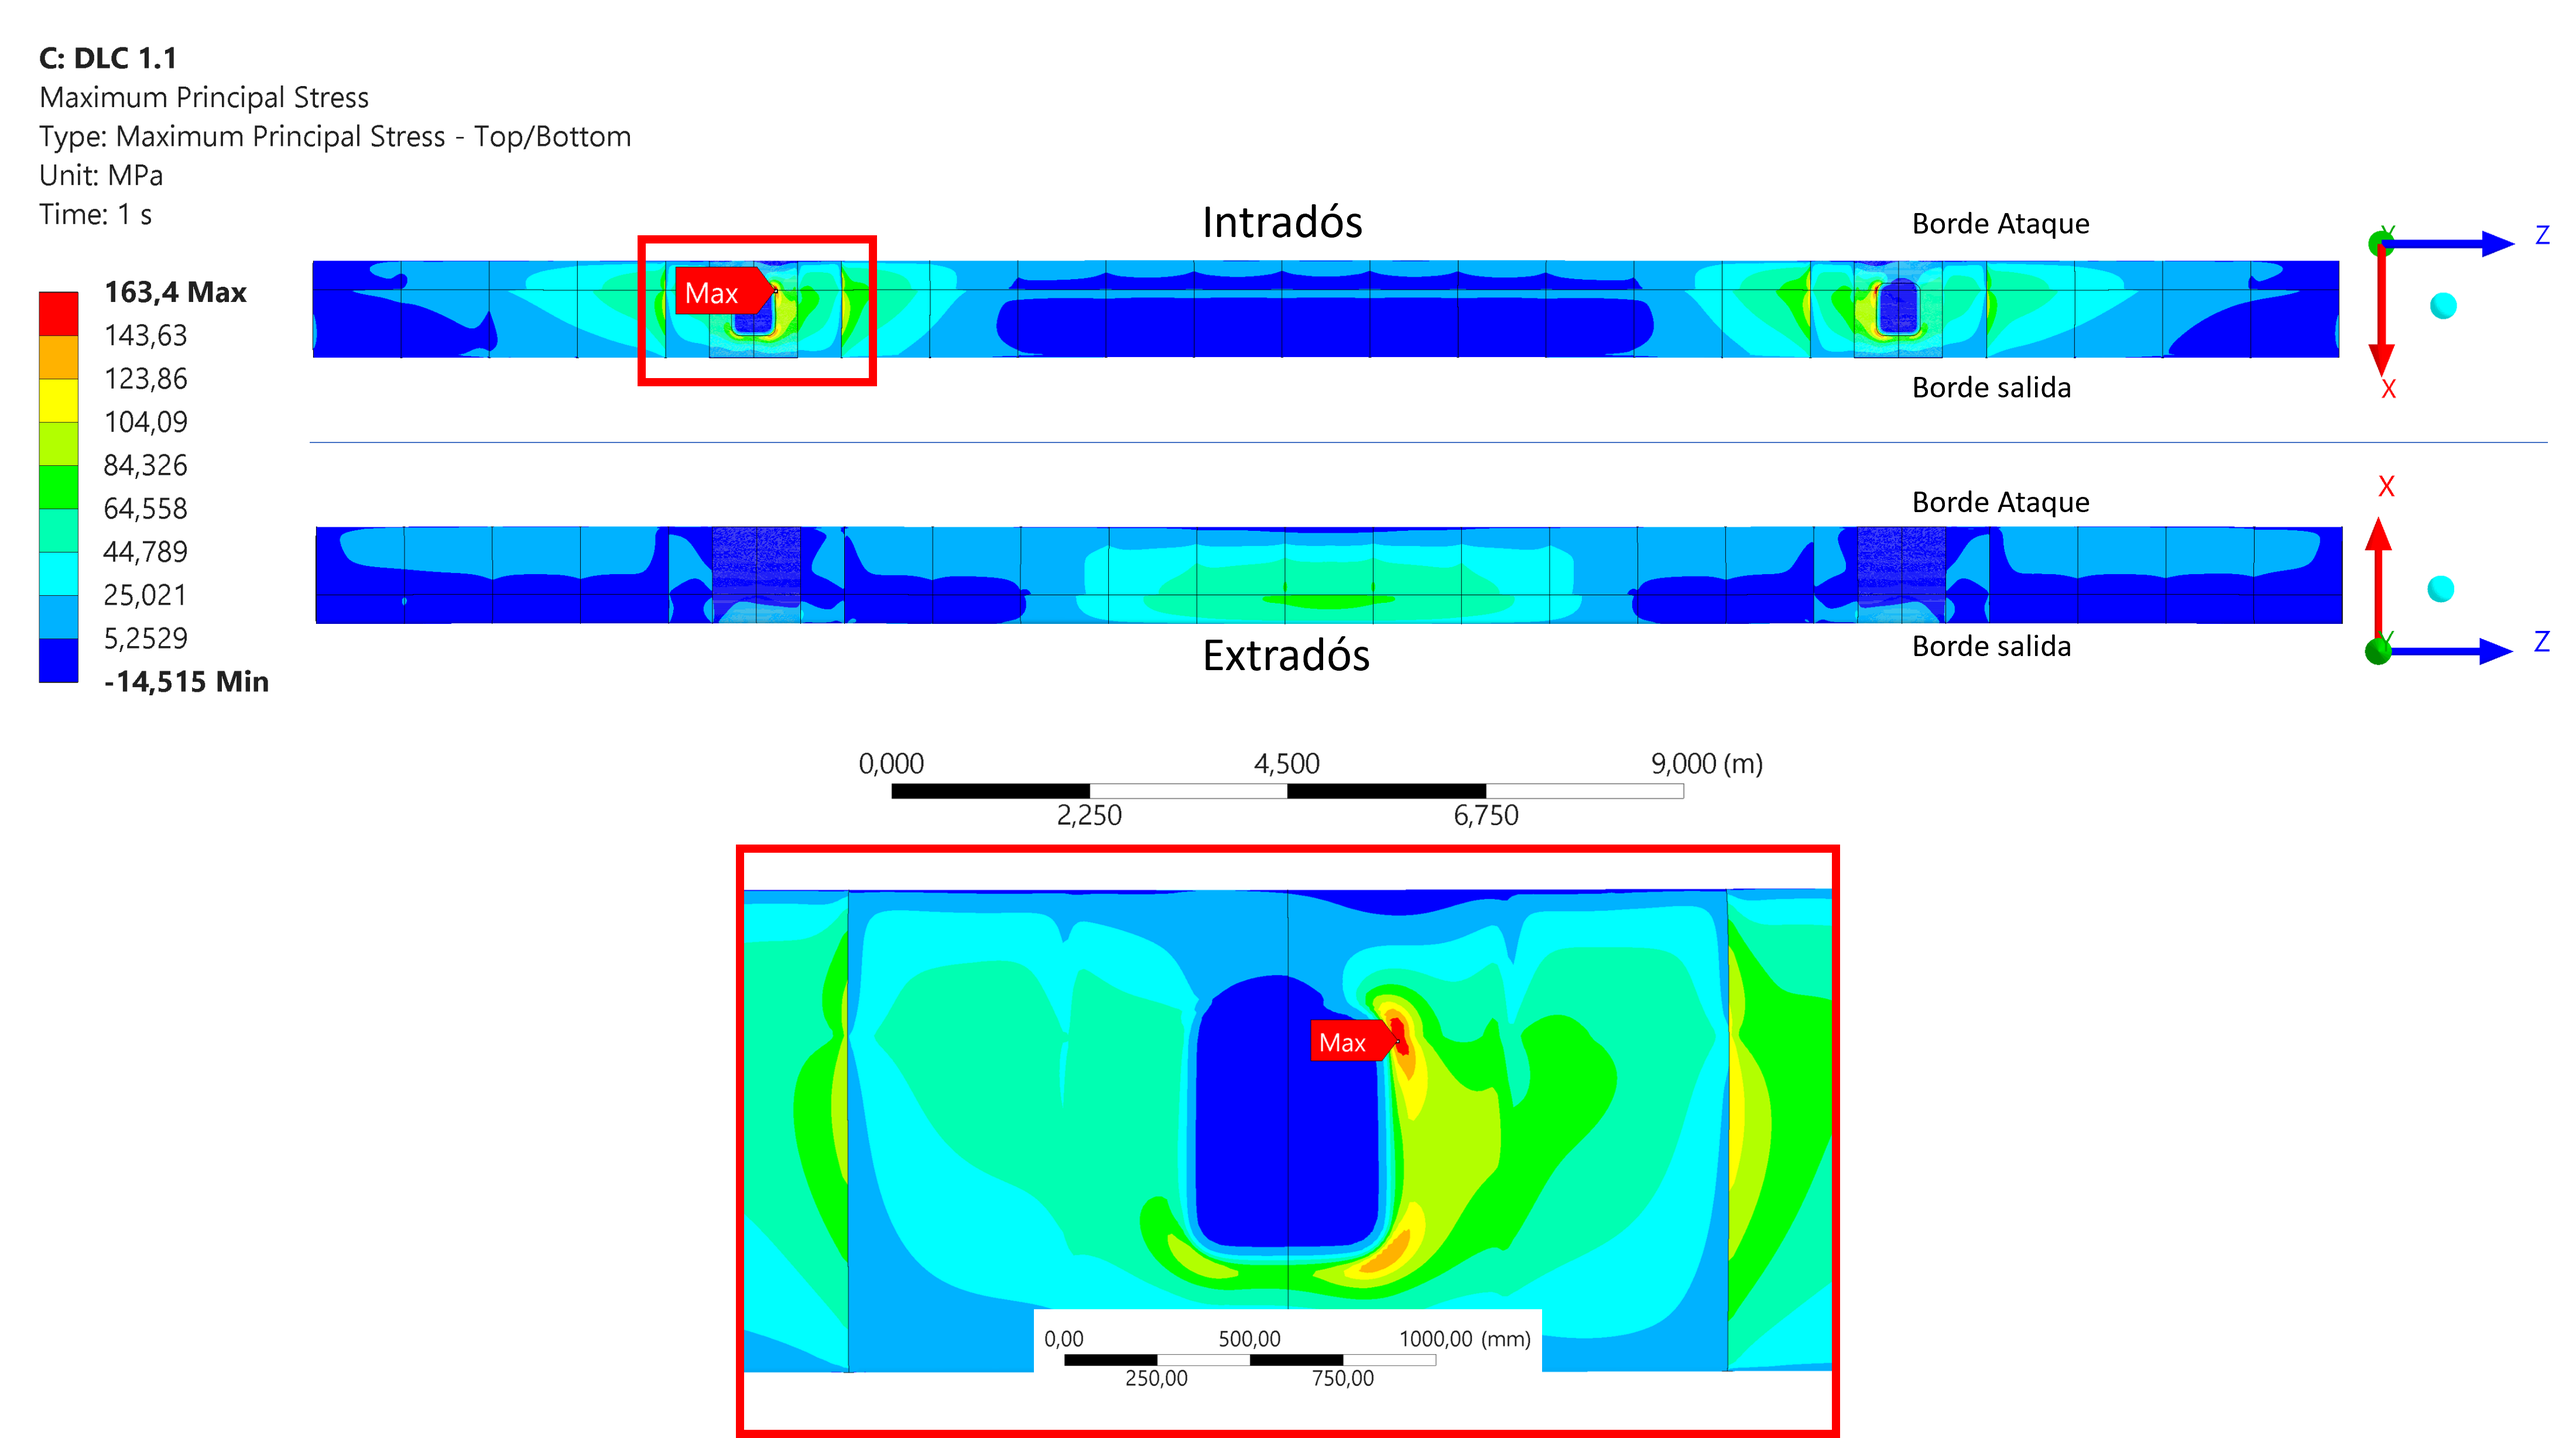
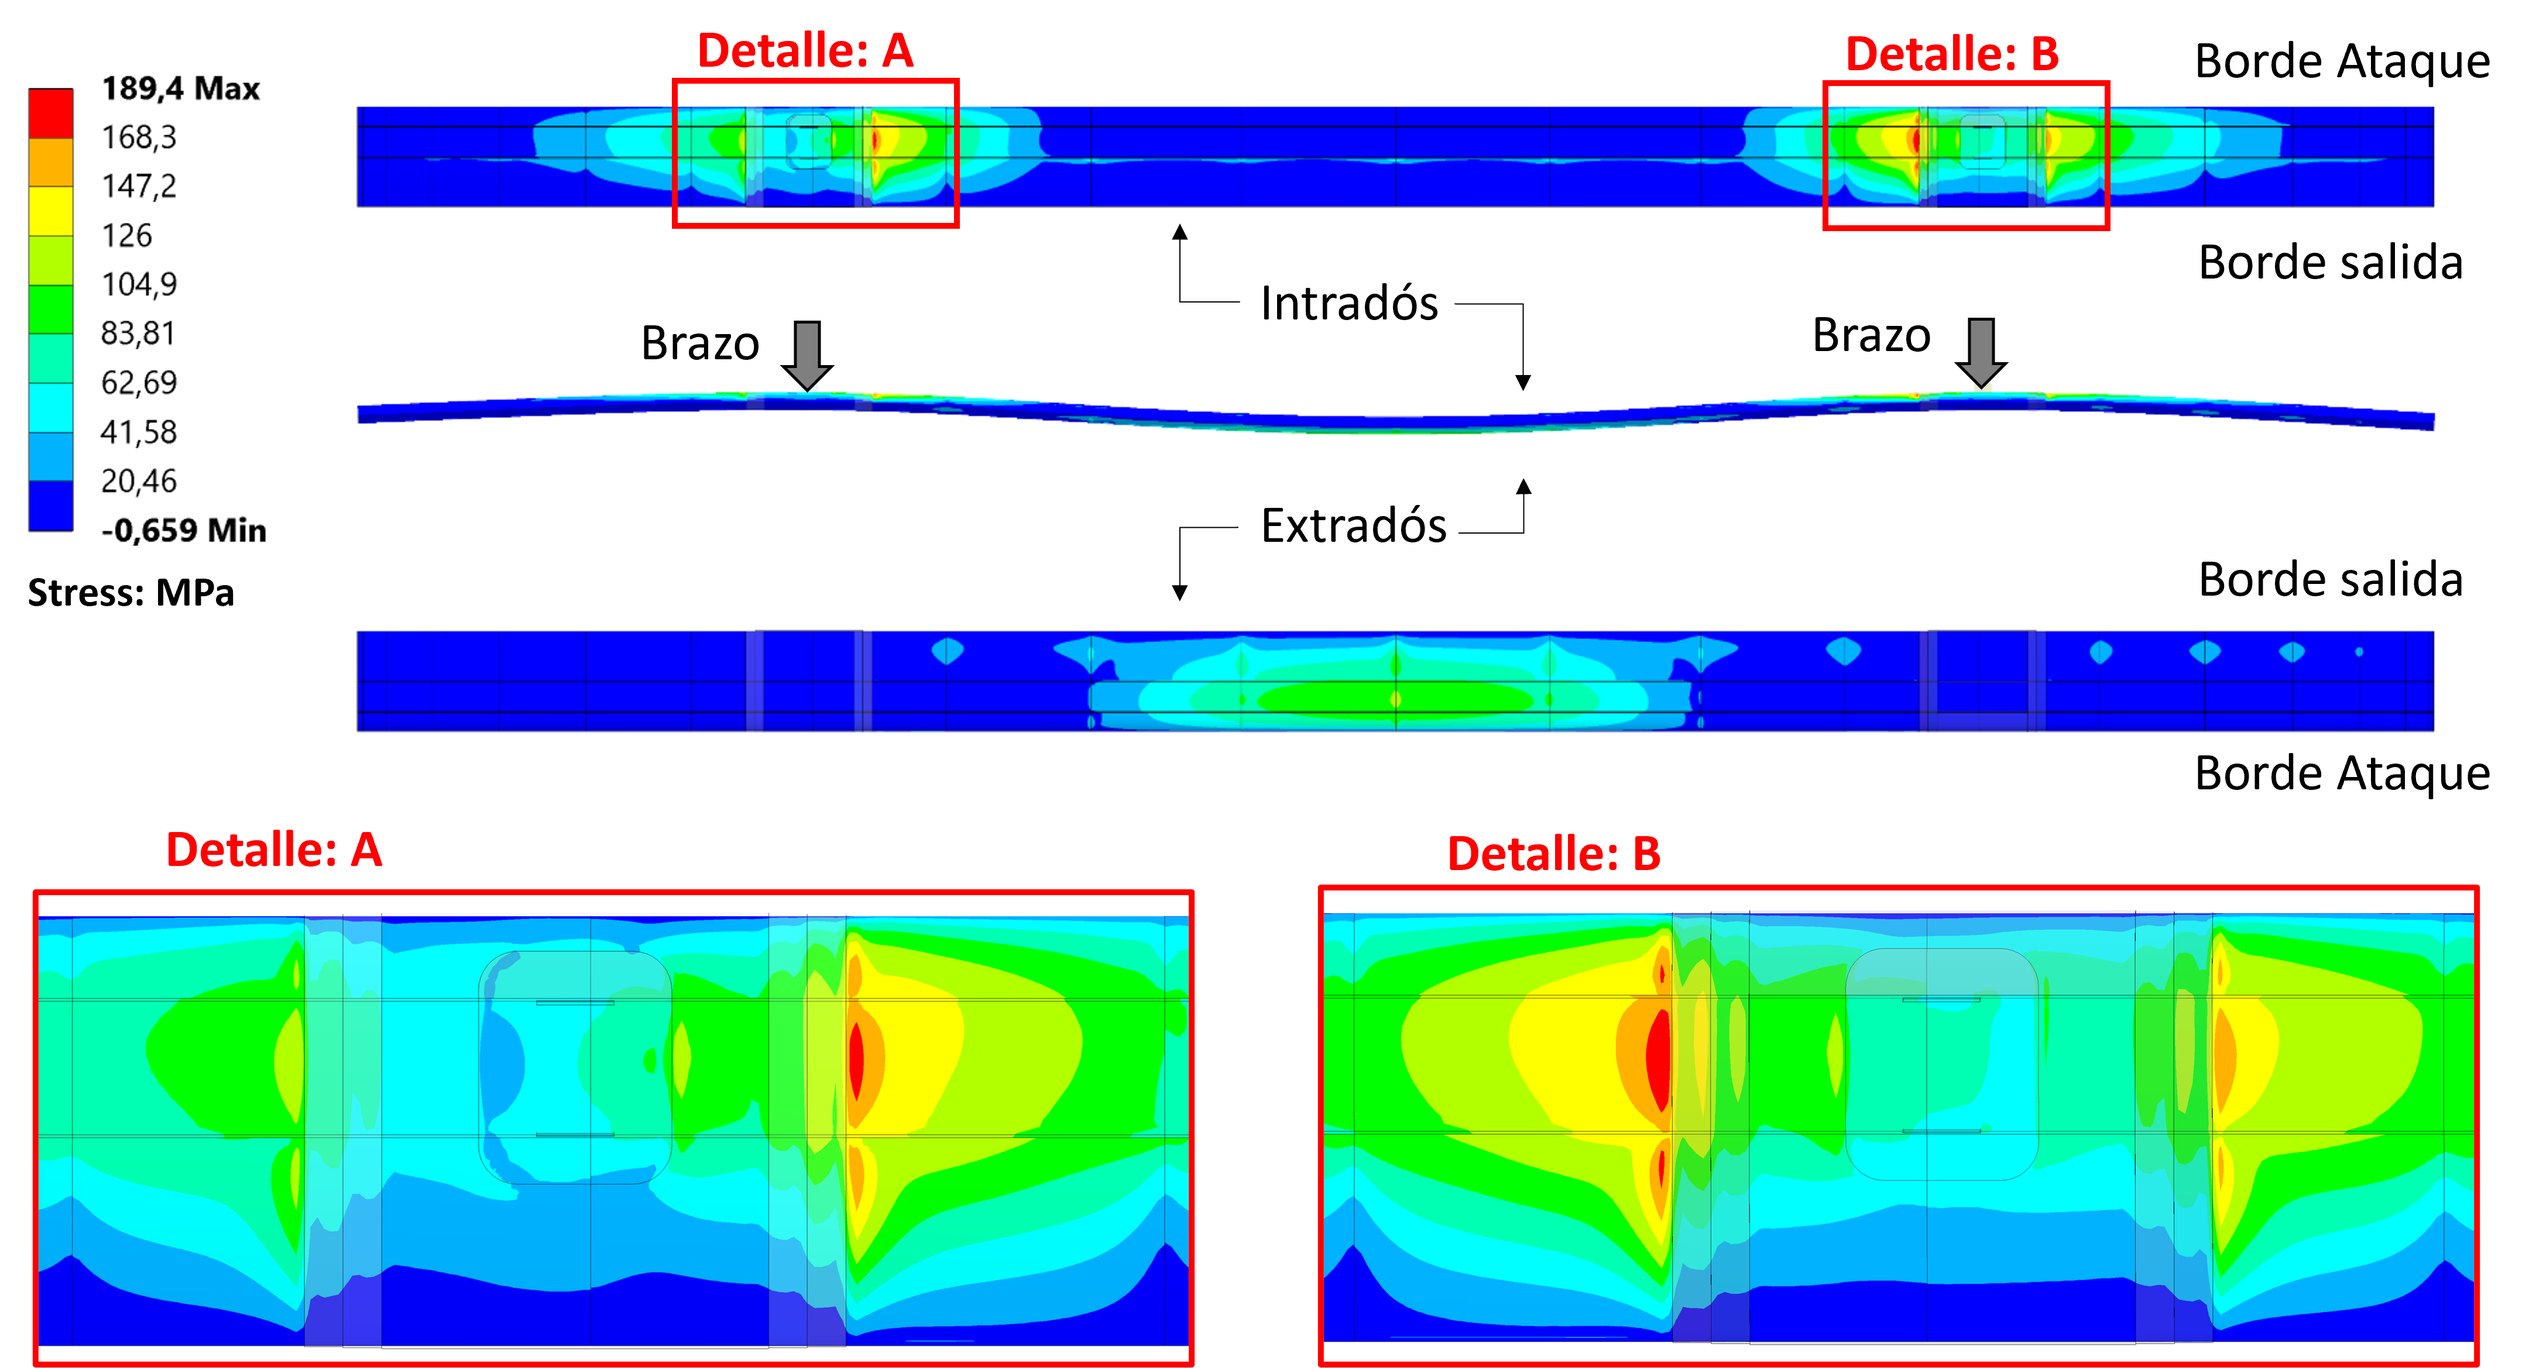
Figura de tensión máxima principal del DLC 1.1 (tanda definitiva)
Reemplaza fem_max11 por el contorno del modelo con el apoyo deformable, que
muestra el intradós, el extradós y el detalle ampliado de las dos conexiones.
El máximo de 189,4 MPa coincide con el valor de la tanda y se localiza sobre
la terminación del vendaje en ambas conexiones, solicitadas de forma casi
simétrica. Se actualiza el pie y la descripción.

diff --git a/4 Resultados.tex b/4 Resultados.tex
@@ -771,12 +771,12 @@ Se reportan primero las tensiones y la deformación bajo las cargas del DLC 1.1,
 
 \subsubsection{Tensiones principales}
 
-La Figura~\ref{fig:fem_max11} presenta la distribución de tensión principal máxima en ambas caras de la pala (intradós y extradós), junto con un detalle de la zona crítica. El valor máximo del manto, $\sigma_{1,\max} = 189{,}40$~MPa, se localiza en la conexión con el brazo superior ($z = 18$~m), unos centímetros más allá del punto en que termina el vendaje de refuerzo.
+La Figura~\ref{fig:fem_max11} presenta la distribución de tensión principal máxima sobre las dos caras de la pala, el intradós y el extradós, con el detalle ampliado de las dos conexiones con los brazos. El valor máximo del manto, $\sigma_{1,\max} = 189{,}40$~MPa, se localiza en la conexión con el brazo superior ($z = 18$~m), unos centímetros más allá del punto en que termina el vendaje de refuerzo. Las dos conexiones se solicitan de forma prácticamente simétrica, con $189{,}40$~MPa en la superior y $178{,}69$~MPa en la inferior, y en ambas el máximo aparece sobre la línea en que el refuerzo termina y el manto queda cargando solo.
 
 \begin{figure}[H]
     \centering
     \includegraphics[width=\textwidth]{Figuras/Figuras Resultados/fem_max11.png}
-    \caption{Distribución de tensión principal máxima, DLC 1.1.}
+    \caption[Distribución de tensión principal máxima, DLC 1.1.]{Distribución de tensión principal máxima del DLC 1.1 sobre el intradós y el extradós de la pala, en MPa. Los detalles A y B amplían las dos conexiones con los brazos, donde el máximo se localiza sobre la terminación del vendaje de refuerzo.}
     \label{fig:fem_max11}
 \end{figure}
 
